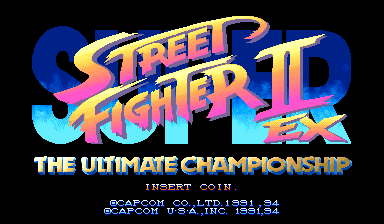
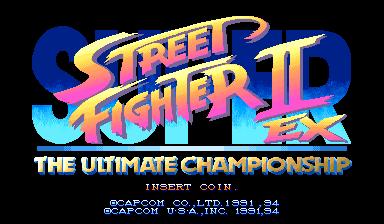
ssf2-ex: recapture the title screens with the rule
Both title shots were captured before the UC title rule landed, so the page
showed the logo sitting straight on top of THE ULTIMATE CHAMPIONSHIP while
the kit it links has drawn the rule between them since 2026-09-16.

Recaptured from the current enhanced builds at the settled title state: the
rule sweeps in from about 44 s and holds until the title flips, so these are
its final state rather than a frame mid-sweep.

Rebuilt with --only ssf2-ex. The kit zips came out byte-identical -- they
were already built from these sources -- so the rest of the change is the
two copies under docs/img and the cache-busting hashes that name them.

diff --git a/docs/ssf2-ex/index.html b/docs/ssf2-ex/index.html
@@ -23,8 +23,8 @@
 <div class="badges"><span class="badge release-candidate">Release candidate</span><span class="badge plain">rc1</span><span class="badge plain">Capcom CPS-2</span></div>
 <dl class="meta"><dt>Game</dt><dd>Super Street Fighter II X: Grand Master Challenge (Japan 940311)</dd><dt>Hardware</dt><dd>Capcom CPS-2</dd><dt>MAME set</dt><dd>ssf2xj</dd><dt>Version</dt><dd>rc1</dd><dt>Updated</dt><dd>2026-09-17</dd></dl>
 <h2>Screenshots</h2>
-<figure class="shot single"><img src="../img/ssf2-ex/00_single.png?v=dc4d0d4d49" alt="The Ultimate Championship, with the EX mark. USA build."><figcaption>The Ultimate Championship, with the EX mark. USA build.</figcaption></figure>
-<figure class="shot single"><img src="../img/ssf2-ex/01_single.png?v=5d93285bc5" alt="The Japan build keeps the big X."><figcaption>The Japan build keeps the big X.</figcaption></figure>
+<figure class="shot single"><img src="../img/ssf2-ex/00_single.png?v=7592b76ccd" alt="The Ultimate Championship, with the EX mark. USA build."><figcaption>The Ultimate Championship, with the EX mark. USA build.</figcaption></figure>
+<figure class="shot single"><img src="../img/ssf2-ex/01_single.png?v=c8d66af5db" alt="The Japan build keeps the big X."><figcaption>The Japan build keeps the big X.</figcaption></figure>
 <figure class="shot single"><img src="../img/ssf2-ex/02_single.png?v=748e2b7e27" alt="Ten Akuma finishes with the Raging Demon and the 天 pose."><figcaption>Ten Akuma finishes with the Raging Demon and the 天 pose.</figcaption></figure>
 <figure class="shot"><div class="pair"><div><p class="label">VS screen</p><img src="../img/ssf2-ex/03_before.png?v=e8242973f8" alt="VS screen: Portraits follow the color you picked, including the two new ones. Ryu is shown in his tenth color."></div><div><p class="label">In the fight</p><img src="../img/ssf2-ex/03_after.png?v=2381e23a79" alt="In the fight: Portraits follow the color you picked, including the two new ones. Ryu is shown in his tenth color."></div></div><figcaption>Portraits follow the color you picked, including the two new ones. Ryu is shown in his tenth color.</figcaption></figure>
 <figure class="shot single"><img src="../img/ssf2-ex/04_single.png?v=840803f190" alt="The car is back, along with the barrels and the oil drums."><figcaption>The car is back, along with the barrels and the oil drums.</figcaption></figure>

diff --git a/docs/index.html b/docs/index.html
@@ -62,7 +62,7 @@
     <div class="sub">Japan&#x27;s Super Turbo, with everything added back · Super Street Fighter II X: Grand Master Challenge (Japan 940311)</div>
     <p class="summary">Japan&#x27;s Super Turbo with the extras it never had together: Shin Akuma and Ten Akuma on the select screen, the bonus stages back, Tournament Battle, two more colors and Free Play. In English or Japanese.</p>
   </div>
-  <img class="thumb" src="img/ssf2-ex/00_single.png?v=dc4d0d4d49" alt="Super Street Fighter II EX: The Ultimate Championship screenshot">
+  <img class="thumb" src="img/ssf2-ex/00_single.png?v=7592b76ccd" alt="Super Street Fighter II EX: The Ultimate Championship screenshot">
 </a>
 </section>
 <section class="kind" id="restorations">
